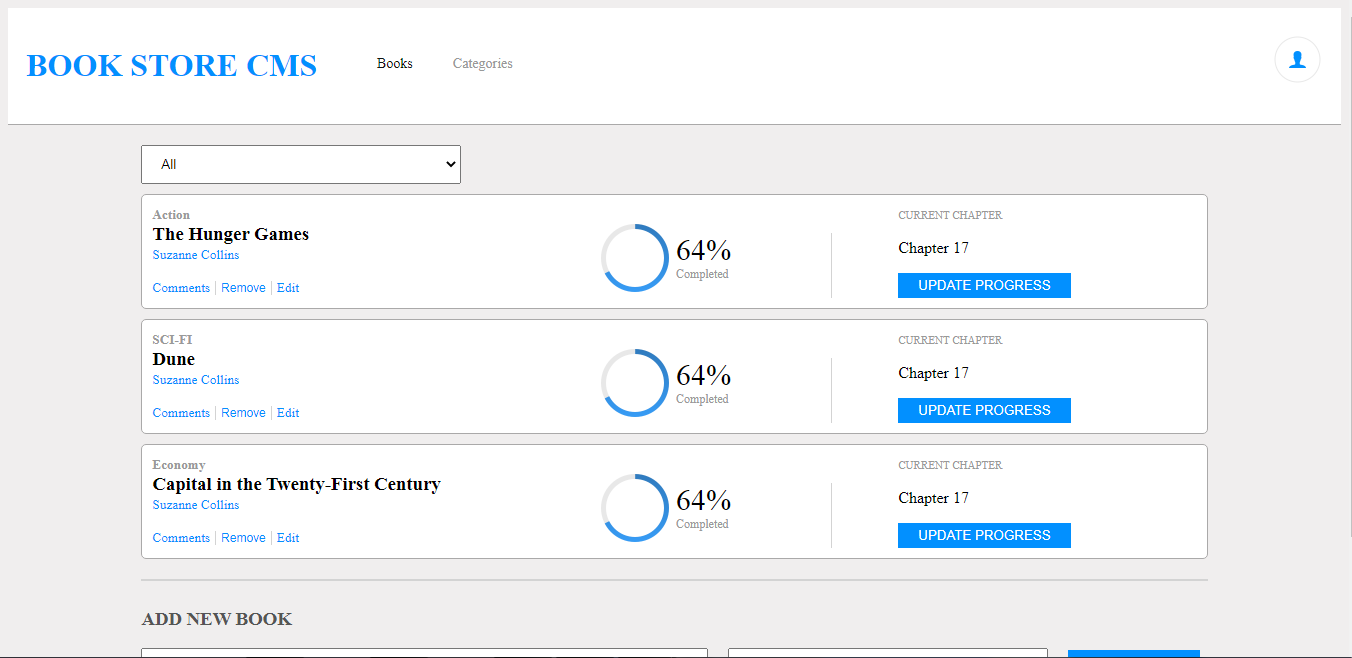
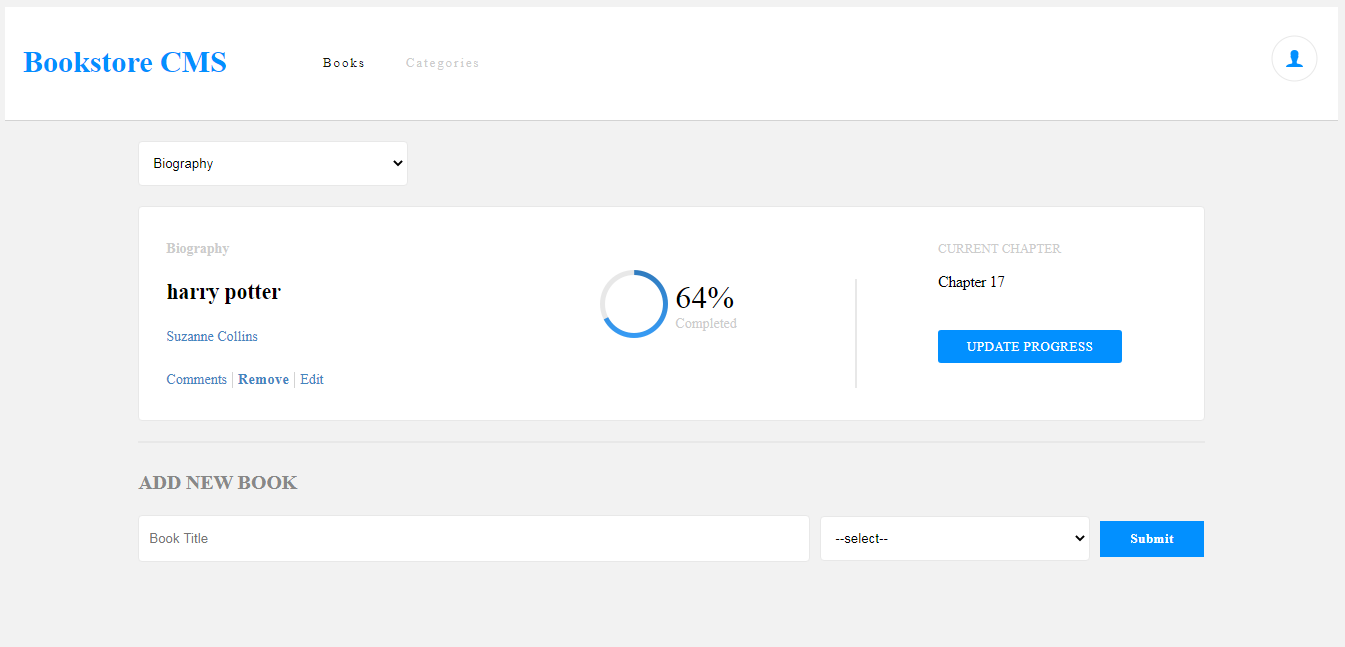
Complete style feedback

diff --git a/src/css/index.css b/src/css/index.css
@@ -1,5 +1,5 @@
 body {
-  background: rgb(240, 238, 238);
+  background: rgba(0, 0, 0, 0.05);
 }
 
 .panel-bg {
@@ -62,41 +62,52 @@ ul li small {
 .form {
   width: 80%;
   margin: auto;
-  border-top: 2px solid lightgray;
+  border-top: 2px solid #e8e8e8;
   padding-top: 8px;
   margin-bottom: 100px;
 }
 
 .form h3 {
-  color: #555;
-}
-
-input,
-select {
-  padding: 10px 15px;
-  margin-right: 20px;
+  width: 174px;
+  height: 24px;
+  font-family: Montserrat;
+  font-size: 20px;
+  font-weight: bold;
+  letter-spacing: -0.18px;
+  color: #888888;
 }
 
 input {
-  width: 50%;
+  width: 650px;
+  padding: 0 10px;
+  height: 45px;
+  border-radius: 4px;
+  border: solid 1px #e8e8e8;
+  background-color: #ffffff;
+  margin-right: 10px;
 }
 
 select {
-  width: 30%;
-}
-
-input[type=text]:focus,
-select:focus {
-  border: 3px solid #555;
+  width: 270px;
+  height: 45px;
+  padding: 0 10px;
+  margin-right: 10px;
+  border-radius: 4px;
+  border: solid 1px #e8e8e8;
+  background-color: #ffffff;
 }
 
 button {
   border: none;
-  text-decoration: none;
   cursor: pointer;
   background-color: #0290ff;
   color: #fff;
-  padding: 10px 45px;
+  padding: 10px 30px;
+  font-family: RobotoSlab;
+  font-size: 13px;
+  font-weight: bold;
+  letter-spacing: 0.5px;
+  text-align: center;
 }
 
 .remove {
@@ -104,9 +115,9 @@ button {
   border-right: 1px solid lightgray;
   padding: 0 5px;
   background: transparent;
-  font-size: 12px;
-  color: #0290ff;
+  font-size: 14px;
   align-self: center;
+  color: #4386bf;
 }
 
 .bookList {
@@ -114,54 +125,86 @@ button {
   margin: 20px auto;
 }
 
-.book {
+.lesson-pannel {
   display: grid;
   grid-template-columns: 3fr 2fr 2fr;
-  border: 0.2px solid rgb(170, 169, 169);
-  background: white;
-  margin: 10px 0;
-  padding: 10px;
-  border-radius: 5px;
+  margin: 20px 0px;
+  padding: 32px 27px;
+  border-radius: 4px;
+  border: solid 1px #e8e8e8;
+  background: #ffffff;
 }
 
 .percent {
   display: flex;
-  margin-top: 18px;
+  margin-top: 30px;
 }
 
 .percent-text {
   margin-left: 5px;
-  border-right: 0.2px solid lightgray;
+  border-right: 2px solid #e8e8e8;;
   padding-right: 100px;
   margin-top: 10px;
 }
 
 .percent-text small {
-  font-size: 30px;
+  width: 68px;
+  height: 39px;
+  font-family: Montserrat;
+  font-size: 32px;
 }
 
 .percent-text p {
   color: #999;
   margin-top: 0;
-  font-size: 12px;
+  width: 80px;
+  height: 18px;
+  opacity: 0.5;
+  font-family: Montserrat;
+  font-size: 14px;
 }
 
 .author {
-  color: #0290ff;
+  width: 93px;
+  height: 19px;
+  font-family: RobotoSlab;
+  font-size: 14px;
+  font-weight: 300;
+  color: #4386bf;
 }
 
 .buttons {
-  margin-top: 15px;
+  margin-top: 25px;
 }
 
 .buttons small {
-  color: #0290ff;
+  width: 73px;
+  height: 19px;
+  font-family: RobotoSlab;
+  font-size: 14px;
+  font-weight: 300;
+  color: #4386bf;
   cursor: pointer;
 }
 
 .chapter small {
   color: #999;
   font-size: 11px;
+  width: 126px;
+  height: 18px;
+  opacity: 0.5;
+  font-family: RobotoSlab;
+  font-size: 13px;
+  font-weight: 300;
+}
+
+.chapter p {
+  width: 212px;
+  height: 21px;
+  font-family: RobotoSlab;
+  font-size: 16px;
+  font-weight: 300;
+  letter-spacing: -0.4px;
 }
 
 .buttons small:first-child {
@@ -172,17 +215,42 @@ button {
   padding-left: 5px;
 }
 
+.chapter {
+  padding-left: 50px;
+}
+
 .chapter button {
-  background-color: #0290ff;
+  background: #0290ff;
   color: #fff;
   padding: 5px 20px;
+  margin-top: 20px;
+  width: 184px;
+  height: 33px;
+  border-radius: 3px;
+  font-family: RobotoSlab;
+  font-size: 13px;
+  font-weight: 300;
+  letter-spacing: 0.5px;
+  text-align: center;
 }
 
 .category1 {
   color: #999;
-  font-weight: bolder;
+  width: 49px;
+  height: 18px;
+  opacity: 0.5;
+  font-family: Montserrat;
+  font-size: 14px;
+  font-weight: bold;
+  font-stretch: normal;
+  font-style: normal;
+  line-height: normal;
+  letter-spacing: normal;
 }
 
 .book-tt {
-  margin: 0;
+  font-family: RobotoSlab;
+  font-size: 22px;
+  font-weight: bold;
+  letter-spacing: -0.2px;
 }

diff --git a/src/components/Book.js b/src/components/Book.js
@@ -3,7 +3,7 @@ import propTypes from 'prop-types';
 import sixtyfour from '../assets/sixtyfour.PNG';
 
 const Book = ({ book, removeBook }) => (
-  <div className="book">
+  <div className="lesson-pannel">
     <div>
       <small className="category1">{ book.category }</small>
       <h3 className="book-tt">{ book.title }</h3>
